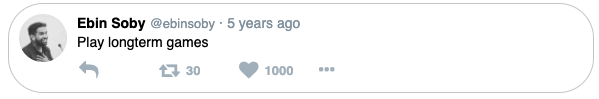
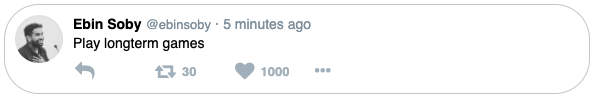
Changing raw data

diff --git a/src/index.js b/src/index.js
@@ -34,7 +34,6 @@ Tweet.propTypes = {
   tweet : PropTypes.object,
 }
 
-
 const testTweet = {
   message: "Play longterm games",
   gravatar: "7b74b3bd280928b0638cdd1b3b1b40ac?size=200",
@@ -44,7 +43,7 @@ const testTweet = {
   },
   likes: 1000,
   retweets: 30,
-  timestamp: "2016-07-30 21:24:37",
+  timestamp: "2021-12-29 22:10:37",
 };
 
 ReactDOM.render(<Tweet tweet={testTweet} />, document.querySelector("#root"));

diff --git a/README.md b/README.md
@@ -5,6 +5,7 @@ A static structure of a tweet, build with React.
 *   Create-React-App bundle
 *   Gravatar Assests
 *   Font Awesome CDN
+*   Moment library used for calculating time elapsed  
 
 ## Screenshot
 
